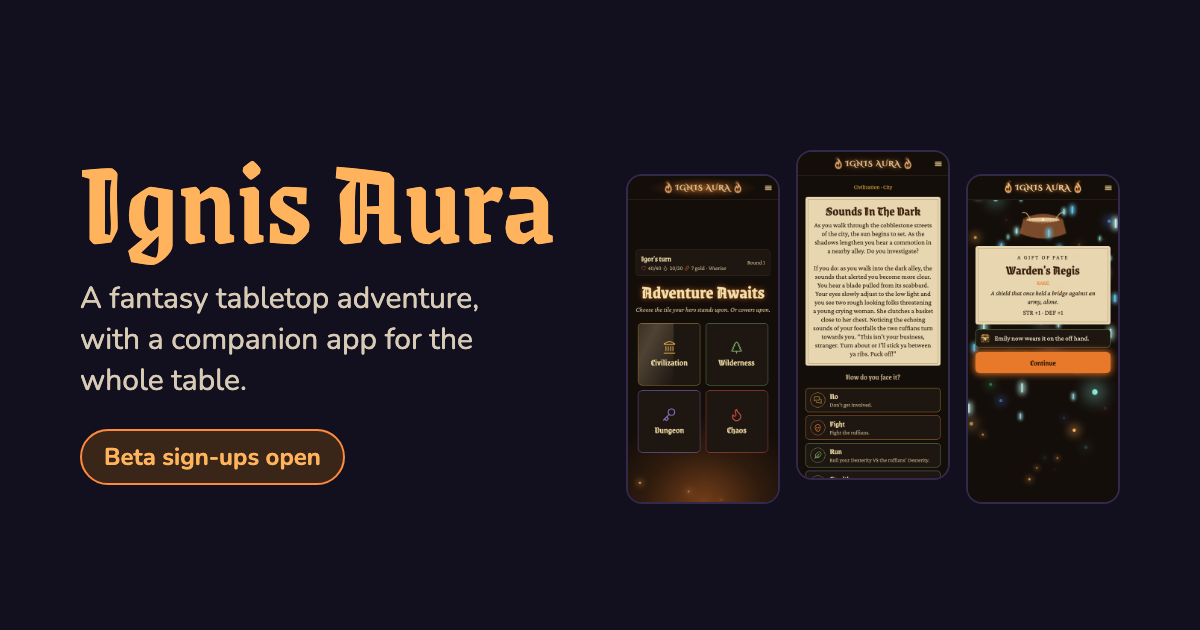
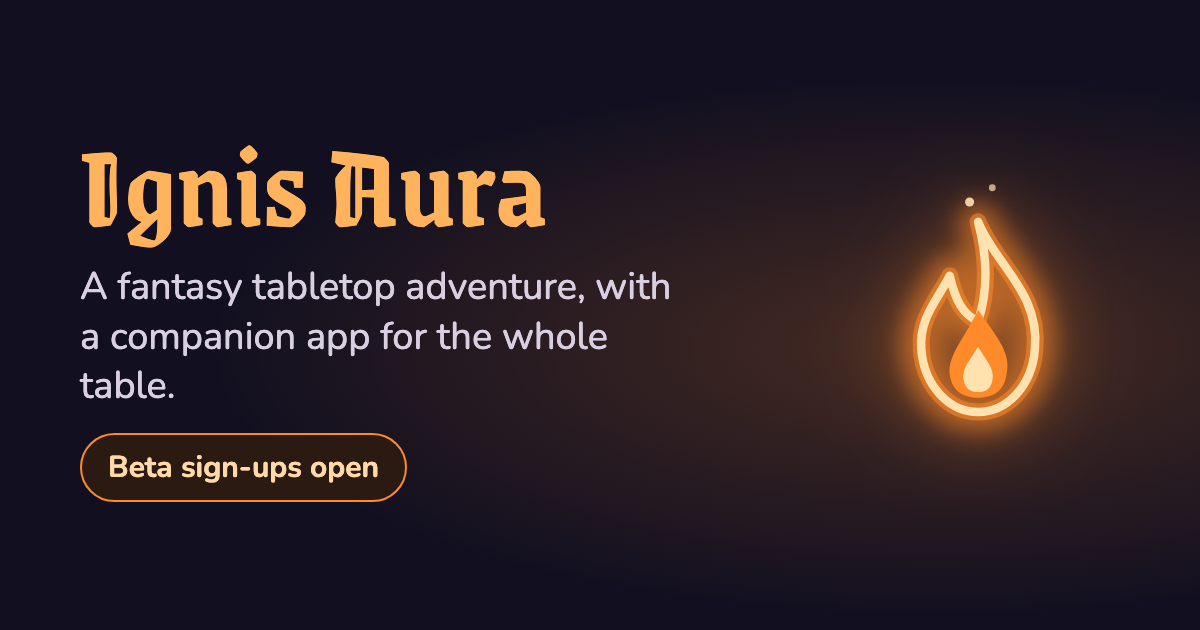
Say less about Ignis Aura until release: no app screenshots, a shorter project page, a plain link preview image, no GitHub link in the footers

diff --git a/site/ignis/index.html b/site/ignis/index.html
@@ -17,7 +17,7 @@
   <meta property="og:image" content="https://creatio-aura.github.io/images/share-ignis-aura.png">
   <meta property="og:image:width" content="1200">
   <meta property="og:image:height" content="630">
-  <meta property="og:image:alt" content="Ignis Aura, with three screenshots of the app.">
+  <meta property="og:image:alt" content="Ignis Aura: a fantasy tabletop adventure, with a companion app for the whole table.">
   <meta name="twitter:card" content="summary_large_image">
   <link rel="preconnect" href="https://fonts.googleapis.com">
   <link rel="preconnect" href="https://fonts.gstatic.com" crossorigin>
@@ -51,16 +51,11 @@
         <p>A fantasy tabletop adventure made to be held. Pieces crafted with care, that snap together with a satisfying magnetic click, and a companion app that runs the game, so everyone at the table can stay in the story.</p>
         <span class="chips"><span>Beta sign-ups open</span><span>iPhone · Android · Web</span></span>
       </div>
-      <div class="shots">
-        <img src="/images/02-tiles.png" alt="Choosing a tile in Ignis Aura" width="402" height="874">
-        <img src="/images/04-encounter.png" alt="An encounter in Ignis Aura" width="402" height="874">
-        <img src="/images/20-chest-of-fate.png" alt="The Chest of Fate in Ignis Aura" width="402" height="874">
-      </div>
     </section>
 
     <section class="wrap idea">
       <h2 style="font-size: 36px; margin-bottom: 12px">The idea</h2>
-      <p class="lede">Part choose-your-own-adventure, part simple d6 ruleset, part a night of telling a story together. Ignis Aura is theater of the mind, anchored by pieces you can pick up: tiles that click into place, dice that land with weight, and cards worth keeping.</p>
+      <p class="lede">Part choose-your-own-adventure, part a night of telling a story together. Ignis Aura is theater of the mind, anchored by pieces you can pick up and a table of friends around them.</p>
       <div class="features">
         <div><h3>Made with care</h3><p>Every piece is designed to be handled: beautiful to look at, satisfying to snap together, and made to spark the imagination.</p></div>
         <div><h3>Easy to run</h3><p>The companion app draws the encounters, tells the story and keeps the rules, so nobody has to be the rulebook.</p></div>
@@ -68,37 +63,9 @@
       </div>
       <div class="panel beta-note">
         <h3>Playing the beta</h3>
-        <p>During the beta, Ignis Aura can be played entirely on screen, board and all, so testers can try everything and tell us what to change. At release, the game is played with its physical set: the pieces hold the table, and the app helps run the game.</p>
+        <p>Beta testers play early builds and tell us what to change. At release, the game is played with its physical set, and the app helps run it.</p>
       </div>
     </section>
-    <section class="band">
-      <div class="wrap" style="display: block">
-        <h2 style="font-size: 36px; margin-bottom: 28px">What the app does</h2>
-        <div class="features">
-          <div><h3>Play together, your way</h3><p>Pass and play on one phone around the fire, or each friend on their own: nearby over Bluetooth, or over Wi-Fi and online. Chat with the table in game.</p></div>
-          <div><h3>Adventures and choices</h3><p>Tell it the tile and place your piece stands on; it draws the encounter, tells the story, and your choices settle what happens next. Each adventure has a quest to see through together.</p></div>
-          <div><h3>Mini games</h3><p>Pick tilt-maze locks, crack rune locks, solve riddles and race quicktime flares. Roll the real dice, or the app's during the beta.</p></div>
-          <div><h3>Heroes that grow</h3><p>Choose a class and build your hero: stats, class abilities, gear, gold and renown. Level up, rank up your abilities and grow stronger as you go.</p></div>
-          <div><h3>The digital board</h3><p>Every hero's square across the four tiles, kept in step with the table. In the beta, play the whole board on screen.</p></div>
-          <div><h3>The Chest of Fate</h3><p>Great deeds earn a draw: break the seal, enter the runes from a real Fate card, claim the reward.</p></div>
-          <div><h3>Quests</h3><p>See your party's quest through, take on side quests from the people you meet, and chase a personal quest chosen with your hero, all in a quest log.</p></div>
-          <div><h3>Day and night</h3><p>Two rounds of day, two of night. When night falls, some things only come out after dark.</p></div>
-          <div><h3>Common to Legendary</h3><p>Every encounter has a rarity, and the rarest are worth the wait. Some happen only once a game.</p></div>
-          <div><h3>Loot, and where to next</h3><p>Open a pouch of loot and keep a hidden pocket safe from thieves. In a city square, choose where to head: the tavern, the market, a merchant in rags.</p></div>
-          <div><h3>Stranger things</h3><p>A portal may tear open at the edge of the world, and the Keeper can call up a wind that scatters the party. Wait your turn by joining the stars.</p></div>
-        </div>
-        <div class="panel coming-soon">
-          <h3>Coming soon <span class="wip">Work in progress</span></h3>
-          <ul>
-            <li><strong>Trading.</strong> Heroes who share a space can trade gear and gold, both agreeing before anything changes hands.</li>
-            <li><strong>Traits.</strong> Lasting changes your hero gains on the road, for better or worse. Some can be cured; some can't.</li>
-            <li><strong>Secret quests.</strong> A hidden goal for every hero, for when the table wants a little rivalry.</li>
-            <li><strong>Longer roads.</strong> More of the Wilderness, the Dungeon and Chaos, and a long-play game with the final boss to face.</li>
-          </ul>
-        </div>
-      </div>
-    </section>
-
     <section class="wrap beta" id="beta">
       <div class="beta-intro">
         <h2>Join the beta</h2>
@@ -172,7 +139,6 @@
         <a href="/privacy/">Privacy</a>
         <a href="/beta/terms/">Beta terms</a>
         <a href="mailto:creatio.aura@gmail.com">creatio.aura@gmail.com</a>
-        <a href="https://github.com/Creatio-Aura">GitHub</a>
       </nav>
     </div>
   </footer>

diff --git a/site/styles.css b/site/styles.css
@@ -106,19 +106,9 @@ a.card:hover { border-color: #5b4d78; color: var(--text); }
 .project-hero { display: grid; grid-template-columns: repeat(auto-fit, minmax(300px, 1fr)); gap: 48px; align-items: center; padding-top: 32px; padding-bottom: 64px; }
 .project-hero h1 { font-size: clamp(72px, 10vw, 120px); line-height: 0.9; color: var(--amber); }
 .project-hero p { font-size: 19px; color: var(--text-soft); }
-.shots { display: flex; gap: 14px; justify-content: center; }
-/* height: auto keeps each screenshot its own shape as the width shrinks to fit. */
-.shots img { width: 31%; max-width: 180px; height: auto; border-radius: 18px; border: 2px solid var(--card-line); }
-.shots img:nth-child(odd) { transform: translateY(18px); }
 .features { display: grid; grid-template-columns: repeat(auto-fit, minmax(240px, 1fr)); gap: 24px; }
 .features h3 { font-size: 20px; margin-bottom: 6px; }
 .features p { color: var(--text-soft); font-size: 16px; }
-.coming-soon { margin-top: 40px; gap: 12px; }
-.coming-soon h3 { display: flex; flex-wrap: wrap; align-items: center; gap: 10px; font-size: 22px; }
-.coming-soon .wip { font-family: inherit; font-size: 12px; font-weight: 700; letter-spacing: 0.08em; text-transform: uppercase; padding: 3px 10px; border-radius: 999px; border: 1px solid currentColor; color: var(--text-soft); }
-.coming-soon ul { display: grid; gap: 10px; padding-left: 20px; }
-.coming-soon li { color: var(--text-soft); }
-.coming-soon strong { color: var(--text); }
 .idea { display: block; padding-top: 72px; padding-bottom: 72px; }
 .idea .lede { font-size: 20px; color: var(--text-soft); max-width: 760px; margin-bottom: 32px; }
 .idea .beta-note { margin-top: 40px; gap: 8px; }

diff --git a/site/index.html b/site/index.html
@@ -87,7 +87,7 @@
             <span class="badge">Beta sign-ups open</span>
           </div>
           <span class="project-name with-flame"><img class="flame" src="/ignis/flame.svg" alt="" width="56" height="56">Ignis Aura</span>
-          <span>A fantasy tabletop adventure with a companion app: encounters, a digital board, dice, and friends playing together on their own phones.</span>
+          <span>A fantasy tabletop adventure, with a companion app for the whole table.</span>
           <span class="chips"><span>iPhone</span><span>Android</span><span>Web</span></span>
           <span style="font-weight: 700; color: var(--amber)">Take a look →</span>
         </a>
@@ -124,7 +124,6 @@
         <a href="/privacy/">Privacy</a>
         <a href="/beta/terms/">Beta terms</a>
         <a href="mailto:creatio.aura@gmail.com">creatio.aura@gmail.com</a>
-        <a href="https://github.com/Creatio-Aura">GitHub</a>
       </nav>
     </div>
   </footer>
